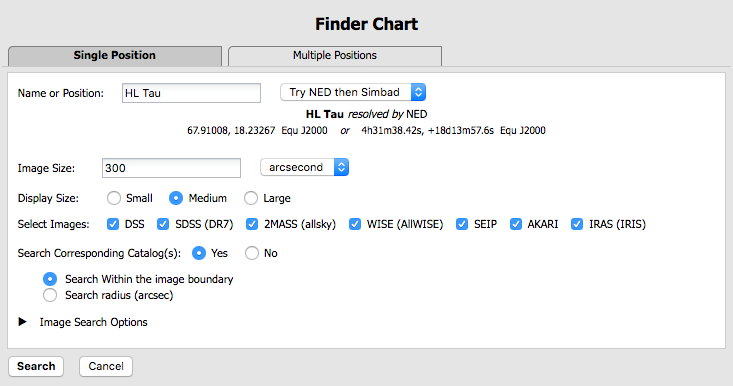
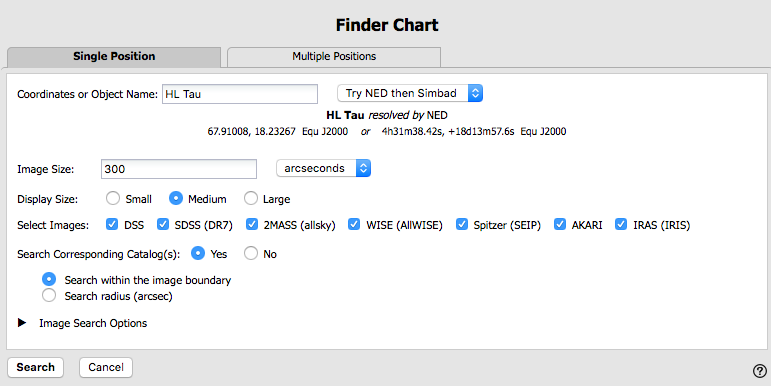
mostly updating FC help for new RC

diff --git a/html/finderchart/visualization.html b/html/finderchart/visualization.html
@@ -145,11 +145,12 @@ FITS image. Be sure to save the cropped FITS image (see annotated
 figure). <br>
 <img src="img/savecropped.png"> <P>  <P>
 
-Note that if you <a href="catalogs.html">overlay a catalog</A>
-consisting of tens of thousands of sources, then turn around and save
-a regions file from the catalog overlay, then you will have far fewer
-sources in the regions file than you have in the full catalog. This is
-a known issue.<P>
+Note that if you <a href="catalogs.html">overlay a large catalog</A>,
+then turn around and save a regions file from the catalog overlay, the
+full catalog may not be saved to the regions file. If you have
+&gt;15,000 sources, enough that the accompanying plot is shown in
+shades of grey, not every source will be overlaid on the image, even
+if you zoom in, and thus will not be in the regions file.<P>
 
 The saved PNG is the same size as it is on your screen. If you want a
 big version, make the desired image big on your screen (view
@@ -805,10 +806,18 @@ are overlaid at all, much less that the catalogs are different on each
 set of images. But, it is behaving in the same way as what is
 described here!<P>
 
-<strong>Helpful tip:</strong> If you leave the layers pop-up window
-open while you click on different images to select them, you can see the
-contents of the pop-up layers window change to reflect the layers (and
-options) present in that selected image. <P>
+<strong>Troubleshooting and Tips:</strong> 
+<UL>
+<LI> If you leave the layers pop-up window open while you click on
+different images to select them, you can see the contents of the
+pop-up layers window change to reflect the layers (and options)
+present in that selected image. 
+<LI> If you want to overlay a source list on all the images retrieved
+from a multi-target search, don't overlay it as a regions file;
+regions files will only be shown on the currently selected target's
+images. Overlay your source list as another catalog on its own, and
+then those sources will appear in each image for each target.
+</UL>
 
 
 <A NAME="breakingout"><H3>Breaking out of the pane (and going back)</H3></A>

diff --git a/html/finderchart/tables.html b/html/finderchart/tables.html
@@ -24,6 +24,7 @@ href="catalogs.html">Catalogs</A> is in another section.<P>
 +<A href="#header">Table Header</A> <br>
 +<A href="#columns">Table Columns</A>  <br>
 +<A href="#filters">Table Filters</A>  <br>
++<A href="#cells">Table Cells</A>  <br>
 +<A href="#save">Saving Tables</A>  <br>
 <P>&nbsp;<P>
 
@@ -319,7 +320,21 @@ cancel filters icon (which also appears after you impose filters):
 <img src="img/cancelfilters.png">.<P>
 
 
-<!-- cell stuff not in here because it's not built with new firefly yet !-->
+<h3><A name="cells">Table Cells</A></h3>
+
+Some cell values may be too long for the cell space. If that is the
+case, an ellipsis ("...") will appear in the cell as you mouse over
+it: <br><img src="img/cellellipsis.png"><P>
+
+If you click on the ellipsis, you get a pull-down menu: <br><img
+src="img/cellmenu.png"> from which you can choose to copy the cell
+value or view it in a pop-up window.<P>
+
+If you view it in a pop-up window, it will come up with no special
+formatting:<br> <img src="img/cellpopup-noformatting.png"><br>  If the
+cell has a lot of information, it may help to impose simple
+formatting, which it attempts to do if you tick the box "View with
+formating":<br>  <img src="img/cellpopup-formatting.png"><P>
 
 
 <h3><A name="save">Saving Tables</A></h3>

diff --git a/html/finderchart/basics.html b/html/finderchart/basics.html
@@ -45,13 +45,14 @@ a cone search. <P>
 
 <img src="img/searchscreen.png" width="100%"><P>
 
-<strong>Name or position</strong>. By default, it assumes you are
-searching on a single target. You may enter a target name, and have
-either NED-then-Simbad or Simbad-then-NED resolve the target name into
-coordinates.  Alternatively, you may enter coordinates directly. These
-coordinates can be in decimal degrees or in hh:mm:ss dd:mm:ss format.
-By default, it assumes you are working in J2000 coordinates; you can
-also specify galactic, ecliptic, or B1950 coordinates as follows:
+<strong>Coordinates or Object Name</strong>. By default, it assumes
+you are searching on a single target. You may enter a target name, and
+have either NED-then-Simbad or Simbad-then-NED resolve the target name
+into coordinates.  Alternatively, you may enter coordinates directly.
+These coordinates can be in decimal degrees or in hh:mm:ss dd:mm:ss
+format. By default, it assumes you are working in J2000 coordinates;
+you can also specify galactic, ecliptic, or B1950 coordinates as
+follows:
 <UL>
 <LI>'46.53, -0.251 gal' means 46.53, -0.251 degrees in galactic coordinates
 <LI>'12.7, +4.3 ecl' means 12.7, +4.3 degrees in ecliptic coordinates

diff --git a/html/firefly/visualization.html b/html/firefly/visualization.html
@@ -178,11 +178,12 @@ save icon. Be sure to save the cropped FITS image (see annotated
 figure). This feature is not available for HiPS images.<br> <img
 src="img/savecropped.png"> <P>
 
-Note that if you overlay a large catalog, then turn around and save a
-regions file from the catalog overlay, the full catalog may not be
-saved to the regions file. If you have &gt;15,000 sources, not every
-source will be overlaid on the image, even if you zoom in, and thus
-will not be in the regions file.<P>
+Note that if you <a href="catalogs.html">overlay a large catalog</A>,
+then turn around and save a regions file from the catalog overlay, the
+full catalog may not be saved to the regions file. If you have
+&gt;15,000 sources, enough that the accompanying plot is shown in
+shades of grey, not every source will be overlaid on the image, even
+if you zoom in, and thus will not be in the regions file.<P>
 
 The saved PNG is the same size as it is on your screen. If you want a
 big version, make the desired image big on your screen (view

diff --git a/html/irsaviewer/visualization.html b/html/irsaviewer/visualization.html
@@ -180,11 +180,12 @@ save icon. Be sure to save the cropped FITS image (see annotated
 figure). This feature is not available for HiPS images.<br> <img
 src="img/savecropped.png"> <P>
 
-Note that if you overlay a large catalog, then turn around and save a
-regions file from the catalog overlay, the full catalog may not be
-saved to the regions file. If you have &gt;15,000 sources, not every
-source will be overlaid on the image, even if you zoom in, and thus
-will not be in the regions file.<P>
+Note that if you <a href="catalogs.html">overlay a large catalog</A>,
+then turn around and save a regions file from the catalog overlay, the
+full catalog may not be saved to the regions file. If you have
+&gt;15,000 sources, enough that the accompanying plot is shown in
+shades of grey, not every source will be overlaid on the image, even
+if you zoom in, and thus will not be in the regions file.<P>
 
 The saved PNG is the same size as it is on your screen. If you want a
 big version, make the desired image big on your screen (view

diff --git a/html/catalogs/visualization.html b/html/catalogs/visualization.html
@@ -163,7 +163,9 @@ The Catalog Search Tool, by default, overlays the catalog on the
 image.  If you have &lt;15,000 sources, your catalog will be saved
 fully in the regions file. If your catalog consists of &gt;15,000
 sources, not every source will be overlaid on the image, even if you
-zoom in, and thus will not be in the regions file. <P> 
+zoom in, and thus will not be in the regions file. (If the plot is 
+shades of grey rather than individual points, then not every source is
+overlaid on the image.) <P> 
 
 <dt><img src="img/selectnew.png"> <em>Selecting a new image.</em>  
 <dd>Click on this icon to change the current image to a new image.

diff --git a/app/src/toc/finderchart_toc.js b/app/src/toc/finderchart_toc.js
@@ -199,7 +199,12 @@ const toc_tables = {
             title: 'Table Filters',
             href: 'finderchart/tables.html#filters',
         },
-        {
+         {
+            id: 'tables.cells',
+            title: 'Table Cells',
+            href: 'finderchart/tables.html#cells',
+        },
+       {
             id: 'tables.save',
             title: 'Saving Tables',
             href: 'finderchart/tables.html#save',
